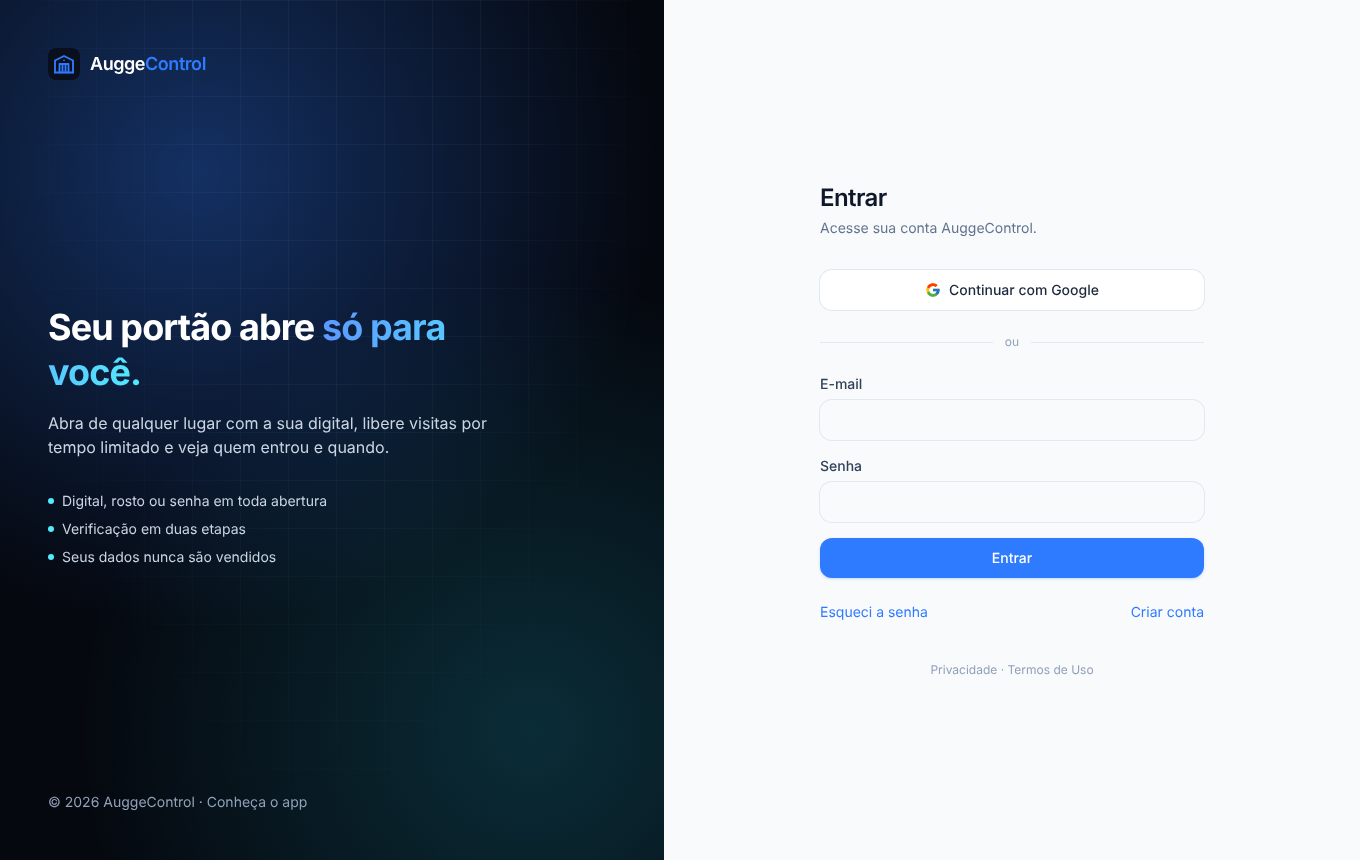
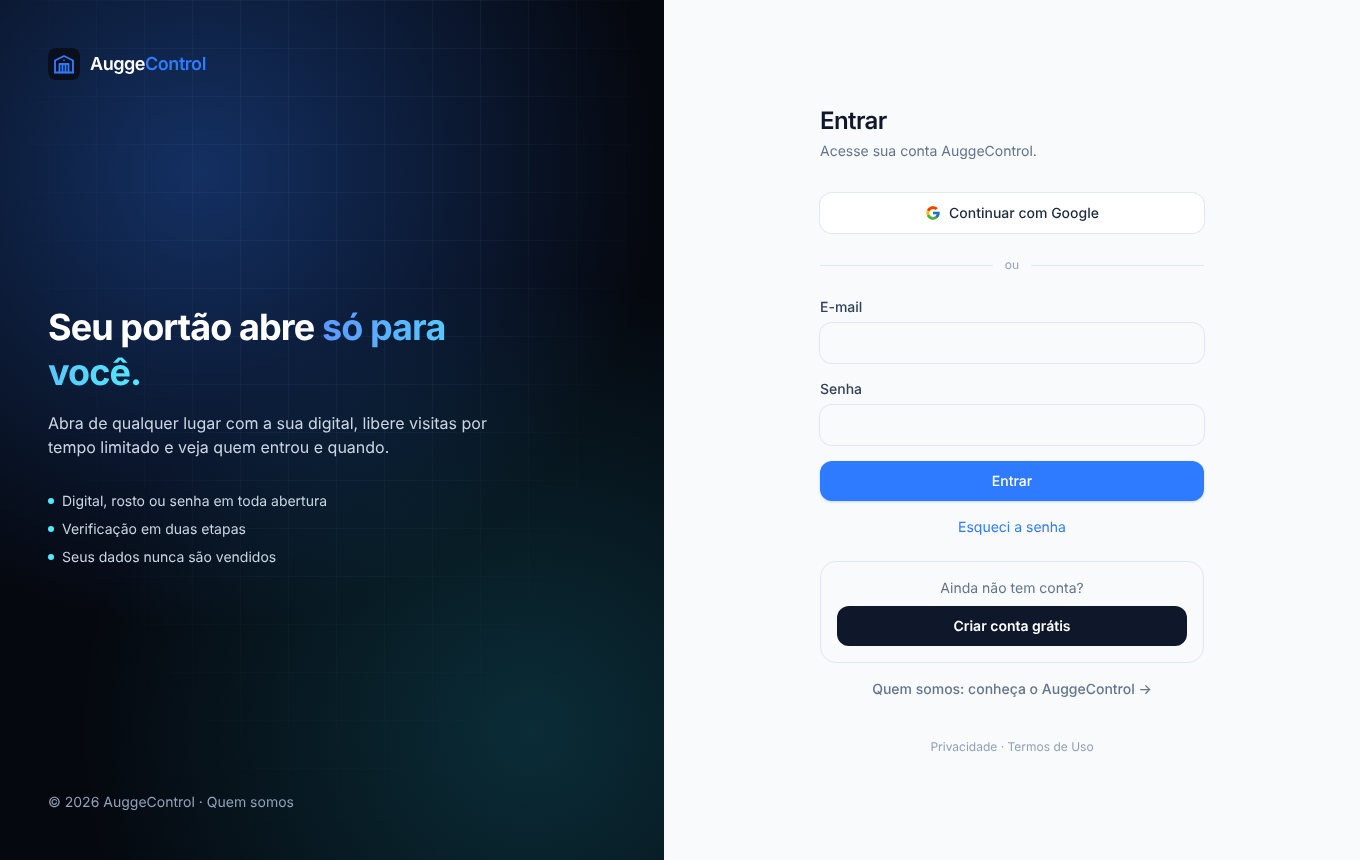
Login como tela inicial; apresentação vira 'Quem somos' (/sobre)
- Quem não está logado cai direto no login
- Botão 'Criar conta grátis' em destaque e link 'Quem somos' no login
- /bem-vindo redireciona para /sobre

Claude-Session: https://claude.ai/code/session_015yE4X29eQh1GJgS6kiZhvh

diff --git a/web/src/pages/Auth.tsx b/web/src/pages/Auth.tsx
@@ -13,7 +13,7 @@ function Shell({ title, subtitle, children }: { title: string; subtitle?: string
         <div className="absolute inset-0 lp-grid" />
         <div className="absolute inset-0 bg-[radial-gradient(circle_at_30%_20%,rgba(47,123,255,.35),transparent_55%),radial-gradient(circle_at_80%_85%,rgba(34,211,238,.18),transparent_50%)]" />
         <div className="relative flex h-full flex-col justify-between p-12 text-white">
-          <Link to="/bem-vindo"><Logo /></Link>
+          <Link to="/sobre"><Logo /></Link>
           <div>
             <h2 className="max-w-md text-4xl font-bold leading-tight tracking-tight">
               Seu portão abre <span className="bg-gradient-to-r from-brand-400 to-cyan-300 bg-clip-text text-transparent">só para você.</span>
@@ -27,7 +27,7 @@ function Shell({ title, subtitle, children }: { title: string; subtitle?: string
               ))}
             </ul>
           </div>
-          <p className="text-sm text-slate-400">© {new Date().getFullYear()} AuggeControl · <Link to="/bem-vindo" className="hover:text-white">Conheça o app</Link></p>
+          <p className="text-sm text-slate-400">© {new Date().getFullYear()} AuggeControl · <Link to="/sobre" className="hover:text-white">Quem somos</Link></p>
         </div>
       </div>
       <div className="flex flex-1 items-center justify-center px-4 py-10">
@@ -121,10 +121,19 @@ export function LoginPage() {
         {error && <Alert>{error}</Alert>}
         <Button type="submit" className="w-full" loading={loading}>Entrar</Button>
       </form>
-      <div className="mt-6 flex justify-between text-sm">
+      <div className="mt-4 text-center text-sm">
         <Link to="/recuperar-senha" className="text-brand-500 hover:underline">Esqueci a senha</Link>
-        <Link to="/cadastro" state={loc.state} className="text-brand-500 hover:underline">Criar conta</Link>
       </div>
+      <div className="mt-6 rounded-2xl border border-slate-200 p-4 text-center dark:border-ink-800">
+        <p className="text-sm text-slate-500">Ainda não tem conta?</p>
+        <Link to="/cadastro" state={loc.state}
+          className="mt-2 inline-flex w-full items-center justify-center rounded-xl bg-slate-900 px-4 py-2.5 text-sm font-semibold text-white hover:bg-slate-800 dark:bg-white dark:text-ink-950 dark:hover:bg-slate-200">
+          Criar conta grátis
+        </Link>
+      </div>
+      <Link to="/sobre" className="mt-4 flex items-center justify-center gap-1.5 text-sm font-medium text-slate-500 hover:text-brand-500">
+        Quem somos: conheça o AuggeControl →
+      </Link>
     </Shell>
   );
 }

diff --git a/web/src/pages/Legal.tsx b/web/src/pages/Legal.tsx
@@ -51,7 +51,7 @@ function LegalShell({ kind, title, intro, summary, sections }: {
       <div className="pointer-events-none fixed inset-x-0 top-0 h-[520px] bg-[radial-gradient(ellipse_at_top,rgba(47,123,255,.22),transparent_60%)]" aria-hidden />
 
       <header className="relative z-10 mx-auto flex max-w-6xl flex-wrap items-center justify-between gap-3 px-4 py-5">
-        <Link to="/bem-vindo"><Logo /></Link>
+        <Link to="/sobre"><Logo /></Link>
         <nav className="flex shrink-0 items-center gap-1 whitespace-nowrap rounded-2xl border border-white/10 bg-white/[.03] p-1 text-sm">
           <Link to="/privacidade" className={kind === "privacidade" ? "rounded-xl bg-white px-3 py-1.5 font-semibold text-ink-950" : "rounded-xl px-3 py-1.5 text-slate-300 hover:text-white"}>Privacidade</Link>
           <Link to="/termos" className={kind === "termos" ? "rounded-xl bg-white px-3 py-1.5 font-semibold text-ink-950" : "rounded-xl px-3 py-1.5 text-slate-300 hover:text-white"}><span className="sm:hidden">Termos</span><span className="hidden sm:inline">Termos de uso</span></Link>
@@ -114,7 +114,7 @@ function LegalShell({ kind, title, intro, summary, sections }: {
         <div className="mx-auto flex max-w-6xl flex-wrap items-center justify-between gap-4 px-4 py-8 text-sm text-slate-400">
           <Logo />
           <div className="flex gap-4">
-            <Link to="/bem-vindo" className="hover:text-white">Conheça o app</Link>
+            <Link to="/sobre" className="hover:text-white">Quem somos</Link>
             <Link to="/privacidade" className="hover:text-white">Privacidade</Link>
             <Link to="/termos" className="hover:text-white">Termos de uso</Link>
             <Link to="/login" className="hover:text-white">Entrar</Link>

diff --git a/web/src/App.tsx b/web/src/App.tsx
@@ -35,7 +35,7 @@ function RequireAuth({ children }: { children: ReactNode }) {
   const { session, loading, needsMfa } = useAuth();
   const loc = useLocation();
   if (loading) return <Loading />;
-  if (!session) return loc.pathname === "/" ? <Navigate to="/bem-vindo" replace /> : <Navigate to="/login" replace state={{ from: loc.pathname }} />;
+  if (!session) return <Navigate to="/login" replace state={loc.pathname === "/" ? undefined : { from: loc.pathname }} />;
   if (needsMfa) {
     sessionStorage.setItem("dc.voltar", loc.pathname);
     return <Navigate to="/verificar-2fa" replace />;
@@ -78,7 +78,8 @@ export default function App() {
           <Route path="/verificar-2fa" element={<MfaGate />} />
           <Route path="/privacidade" element={<PrivacyPage />} />
           <Route path="/termos" element={<TermsPage />} />
-          <Route path="/bem-vindo" element={<LandingPage />} />
+          <Route path="/sobre" element={<LandingPage />} />
+          <Route path="/bem-vindo" element={<Navigate to="/sobre" replace />} />
 
           <Route element={<RequireAuth><UnlockProvider><Layout /></UnlockProvider></RequireAuth>}>
             <Route index element={<Dashboard />} />

diff --git a/web/src/pages/PrivacyCenter.tsx b/web/src/pages/PrivacyCenter.tsx
@@ -111,7 +111,7 @@ export default function PrivacyCenterPage() {
       }
       if (!data?.ok) throw new Error(data?.erro ?? "Não foi possível excluir a conta.");
       await signOut();
-      nav("/bem-vindo", { replace: true });
+      nav("/login", { replace: true });
     } catch (e) { setDelErr(errMsg(e)); }
     finally { setBusy(null); }
   }
